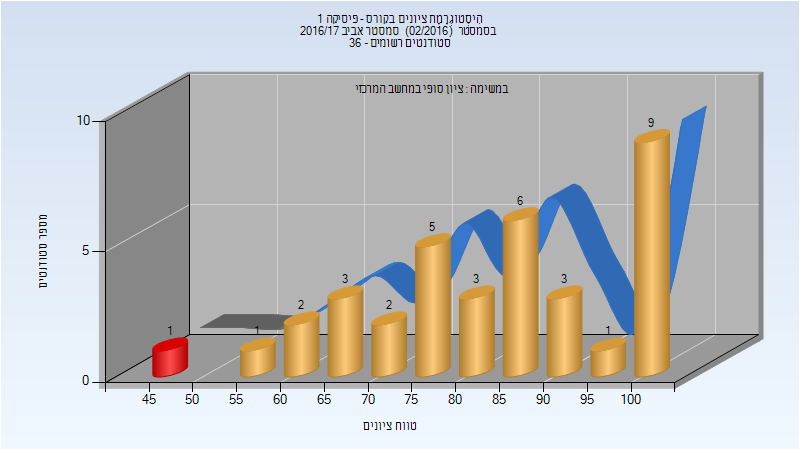
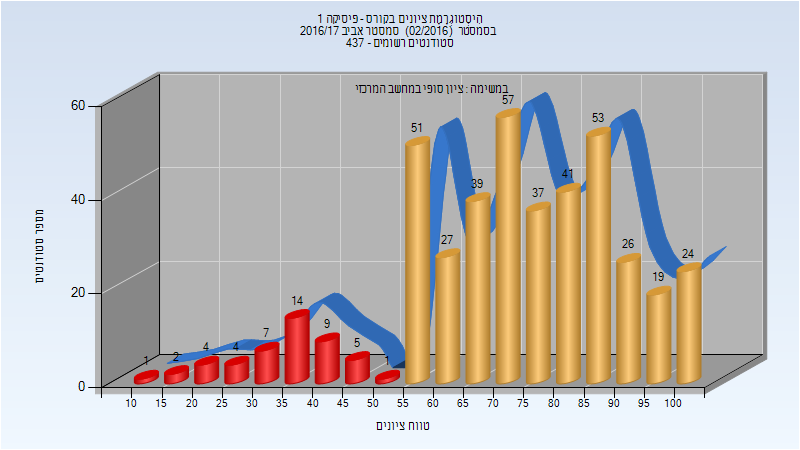
Deploy michael-maltsev/technion-histograms to github.com/michael-maltsev/technion-histograms.git:gh-pages

diff --git a/114051/index.html b/114051/index.html
@@ -595,6 +595,14 @@
 <td>בהר סילביה</td>
 <td>מרצה - אחראי מקצוע</td>
 </tr>
+<tr>
+<td>בורדו אליהו</td>
+<td>מתרגל</td>
+</tr>
+<tr>
+<td>פור אוריה</td>
+<td>מתרגל - עם הרשאות מרצה אחראי</td>
+</tr>
 </tbody>
 </table>
 <h3>מבחן מועד א'</h3>
@@ -717,13 +725,13 @@
 </thead>
 <tbody>
 <tr>
-<td>36</td>
-<td>35/1</td>
-<td>97</td>
-<td>48</td>
+<td>421</td>
+<td>374/47</td>
+<td>89</td>
+<td>11</td>
 <td>100</td>
-<td>83.278</td>
-<td>87</td>
+<td>72.219</td>
+<td>74</td>
 </tr>
 </tbody>
 </table>

diff --git a/114051/README.md b/114051/README.md
@@ -188,6 +188,8 @@
 | איש סגל | תפקיד |
 | ---- | ---- |
 | בהר סילביה | מרצה - אחראי מקצוע |
+| בורדו אליהו | מתרגל |
+| פור אוריה | מתרגל - עם הרשאות מרצה אחראי |
 
 ### מבחן מועד א'
 
@@ -227,7 +229,7 @@
 
 | סטודנטים | עברו/נכשלו | אחוז עוברים | ציון מינימלי | ציון מקסימלי | ממוצע | חציון |
 | ---- | ---- | ---- | ---- | ---- | ---- | ---- |
-| 36 | 35/1 | 97 | 48 | 100 | 83.278 | 87 |
+| 421 | 374/47 | 89 | 11 | 100 | 72.219 | 74 |
 
 ## חורף 2017-2018
 
